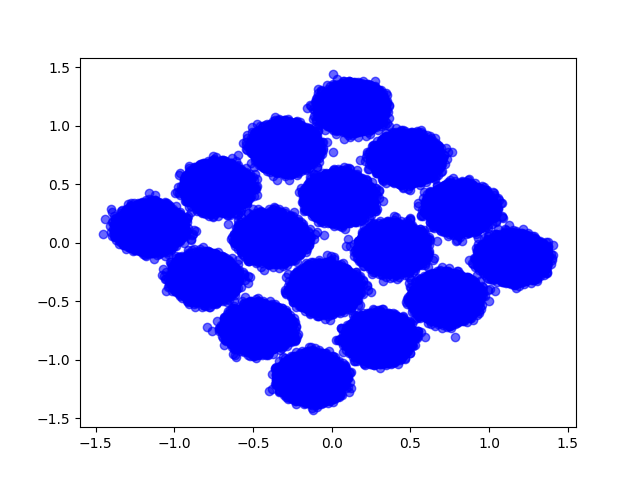
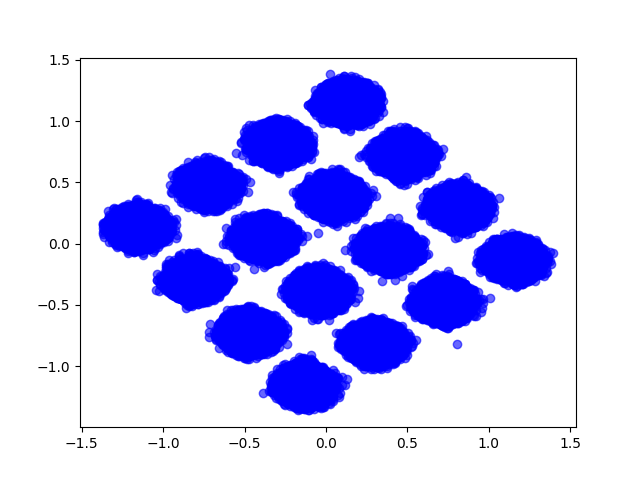
added new stuff check convergence vs taps.py

diff --git a/DSP/convergence_vs_taps.py b/DSP/convergence_vs_taps.py
@@ -6,6 +6,156 @@ from collections import deque
 N_SYMBOLS = 1000000
 NUM_TAPS=51
 
+def plot_conv(cma_error):
+
+    # errors = np.array(list(cma_error.values()))
+    errors = np.array(list(cma_error))
+
+    eps = 1e-12
+    errors = np.maximum(errors, eps)
+    log_errors = np.log10(errors)
+
+    window = 200
+    smooth_log_errors = np.convolve(
+        log_errors,
+        np.ones(window) / window,
+        mode="valid"
+    )
+    # symbols = np.array(list(cma_error.keys()))
+    symbols = np.array(list(cma_error))
+
+    symbols_smooth = symbols[window - 1:]
+    
+    plt.figure(figsize=(12, 6))
+    # plt.plot(symbols_smooth, smooth_log_errors, linewidth=2)
+    plt.plot(smooth_log_errors, linewidth=2)
+    plt.xlabel("Symbol number")
+    plt.ylabel("log10(CMA error)")
+    plt.title("log10(CMA Error) vs symbol number (window=15)")
+    plt.grid(True)
+    plt.savefig("cma_error_smoothed.png")
+
+    plt.close('all')
+    return smooth_log_errors
+
+def cma_python_with_cma_error_convergence(E_in, num_taps, mu_CMA=0.01, error_threshold=1e-3,Num_loops = 1,num_symbols_store = 2000 , patience_counter_threshold = 100):
+    """
+    CMA with moving-average convergence detection (last 10 symbols)
+    In order to calculate the error threshold I store the last (lets say 2000) N symbols.
+    I now calculate avg error over last N symbols and compare the means of N/2 start and N/2 end
+    """
+
+    # ---- Copy and normalize ----
+    xpol = E_in[:, 0].astype(complex)
+    ypol = E_in[:, 1].astype(complex)
+
+    xpol = xpol / np.sqrt(np.mean(np.abs(xpol)**2))
+    ypol = ypol / np.sqrt(np.mean(np.abs(ypol)**2))
+
+
+    N = len(xpol)
+    R = 1
+
+    # ---- Tap initialization ----
+    pxx = np.zeros(num_taps, dtype=complex)
+    pxy = np.zeros(num_taps, dtype=complex)
+    pyx = np.zeros(num_taps, dtype=complex)
+    pyy = np.zeros(num_taps, dtype=complex)
+
+    center = (num_taps - 1) // 2
+    pxx[center] = 1
+    pyy[center] = 1
+
+    convergence_symbol = None
+
+    #I am storing the last 
+    old_error_window = deque(maxlen=num_symbols_store//2)   # last 10 CMA errors
+    recent_error_window = deque(maxlen=num_symbols_store//2)   # last 10 CMA errors
+    #this counts how long we have relative error to be less than threshold
+
+
+    #print("initial_filters",initial_filters)
+    #print("shape is",initial_filters.shape)
+    patience_counter = 0
+    half_win = num_symbols_store//2
+    sum_old = 0.0
+    sum_recent = 0.0
+    log_cma_errors = []
+    difference_cma_errors = []
+
+    for k in range(Num_loops):
+        for ii in range(num_taps - 1, N):
+
+            x_vec = xpol[ii - (num_taps - 1): ii + 1][::-1]
+            y_vec = ypol[ii - (num_taps - 1): ii + 1][::-1]
+
+            x_cap = np.dot(pxx, x_vec) + np.dot(pxy, y_vec)
+            y_cap = np.dot(pyx, x_vec) + np.dot(pyy, y_vec)
+
+            e_x = R**2 - np.abs(x_cap)**2
+            e_y = R**2 - np.abs(y_cap)**2
+
+            log_cma_error = np.log10(0.5*(np.abs(e_x) + np.abs(e_y)))
+            log_cma_errors.append(log_cma_error)
+            #Add the magnitude of the filter vector which I define as sum of mod square of its elements
+            
+            if len(recent_error_window) == half_win:
+                leaving_recent = recent_error_window[0]
+                
+                # Move from recent to old
+                if len(old_error_window) == half_win:
+                    sum_old -= old_error_window[0] # Drop oldest from old sum
+                
+                old_error_window.append(leaving_recent)
+                sum_old += leaving_recent
+                
+                # Remove from recent sum
+                sum_recent -= leaving_recent
+
+            recent_error_window.append(log_cma_error)
+            sum_recent += log_cma_error
+
+            # --- CONVERGENCE CHECK (Using O(1) Sums) ---
+            m_rec = sum_recent / half_win
+            m_old = sum_old / half_win
+            
+            # Relative error check
+            diff_error = m_rec - m_old
+            difference_cma_errors.append(np.abs(diff_error))
+            
+            if convergence_symbol is None and len(old_error_window) == half_win:
+                
+                if np.abs(diff_error)< error_threshold:
+                    patience_counter += 1
+                    if patience_counter >= patience_counter_threshold:
+                        convergence_symbol = ii - patience_counter_threshold
+                else:
+                    patience_counter = 0
+
+
+            # ---- Tap updates ----
+            pxx += 2 * mu_CMA * e_x * x_cap * np.conj(x_vec)
+            pxy += 2 * mu_CMA * e_x * x_cap * np.conj(y_vec)
+            pyx += 2 * mu_CMA * e_y * y_cap * np.conj(x_vec)
+            pyy += 2 * mu_CMA * e_y * y_cap * np.conj(y_vec)
+    
+    def conv_same(sig, taps):
+        full = np.convolve(sig, taps, mode='full')
+        start = (len(taps) - 1) // 2
+        return full[start : start + len(sig)]
+
+    x_out = conv_same(xpol, pxx) + conv_same(ypol, pxy)
+    y_out = conv_same(xpol, pyx) + conv_same(ypol, pyy)
+
+    return (
+        np.column_stack((x_out, y_out)),
+        {
+            'pxx': pxx, 'pxy': pxy, 'pyx': pyx, 'pyy': pyy,
+            'cma_diff_arr': difference_cma_errors,
+            'convergence_symbol': convergence_symbol,
+            'log_cma_errors': log_cma_errors
+        }
+    )
 
 
 def cma_python_with_filter_convergence_index(E_in, num_taps, mu_CMA=0.01, error_threshold=1e-3,Num_loops = 1,num_symbols_store = 2000):
@@ -22,7 +172,7 @@ def cma_python_with_filter_convergence_index(E_in, num_taps, mu_CMA=0.01, error_
     xpol = xpol / np.sqrt(np.mean(np.abs(xpol)**2))
     ypol = ypol / np.sqrt(np.mean(np.abs(ypol)**2))
 
-    
+
     N = len(xpol)
     R = 1
 
@@ -68,7 +218,7 @@ def cma_python_with_filter_convergence_index(E_in, num_taps, mu_CMA=0.01, error_
             e_x = R**2 - np.abs(x_cap)**2
             e_y = R**2 - np.abs(y_cap)**2
 
-            cma_error.append(0.5*(e_x + e_y))
+            cma_error.append(0.5*(np.abs(e_x) + np.abs(e_y)))
             filter_vector = np.concat([pxx, pxy, pyx, pyy])
             #Add the magnitude of the filter vector which I define as sum of mod square of its elements
             filter_vector_magnitude.append(np.vdot(filter_vector,filter_vector).real)
@@ -136,24 +286,78 @@ def cma_python_with_filter_convergence_index(E_in, num_taps, mu_CMA=0.01, error_
 def min_max_normalise(array):
     return (array - np.min(array)) / (np.max(array) - np.min(array))
 
+
+def find_cma_convergence(data, short_w=500, long_w=5000, epsilon=0.005, patience=1000):
+    """
+    Optimized for high-noise convergence like CMA Error plots.
+    """
+    # 1. Calculate Moving Averages
+    ma_short = np.convolve(data, np.ones(short_w)/short_w, mode='valid')
+    ma_long = np.convolve(data, np.ones(long_w)/long_w, mode='valid')
+    
+    # 2. Align arrays
+    offset = long_w - short_w
+    diff = np.abs(ma_short[offset:] - ma_long)
+    
+    # 3. Patience Loop: Find where diff < epsilon for 'patience' consecutive steps
+    low_diff_mask = diff < epsilon
+    counter = 0
+    
+    for i, is_low in enumerate(low_diff_mask):
+        if is_low:
+            counter += 1
+        else:
+            counter = 0 # Reset if noise kicks it back up
+            
+        if counter >= patience:
+            # Return the index where the 'stable' period began
+            return i - patience + long_w 
+            
+    return None
+
 def main():
     intial_symbols=cma_utils.gen_I_Q_16_qam(N_SYMBOLS)
-    after_pmd= cma_utils.apply_pmd(intial_symbols, DGD_ps_per_sqrt_km=31.6, L_m=10000, N_sections=100, Rs=32e9, SpS=4)
+    E_after_pmd= cma_utils.apply_pmd(intial_symbols, DGD_ps_per_sqrt_km=31.6, L_m=10000, N_sections=100, Rs=32e9, SpS=4)
     
-    cma_corrected_pmd, info_dict = cma_python_with_filter_convergence_index(after_pmd, NUM_TAPS,mu_CMA=1e-4)
+    # cma_corrected_pmd, info_dict = cma_utils.cma_python(after_pmd, NUM_TAPS,mu_CMA=1e-5,Num_loops=1)
 
-    cma_utils.save_constellation(cma_corrected_pmd,"cma_corrected_pmd")
-    #print(info_dict["convergence_symbol"])
+    # cma_utils.save_constellation(cma_corrected_pmd,"cma_corrected_pmd")
+    # #print(info_dict["convergence_symbol"])
     
     
-    print("convergence symbol is",info_dict["convergence_symbol"])
 
-    print("length of filter error array",len(info_dict['square_error_arr']))
-    plt.plot(np.log10(info_dict['square_error_arr']))
+    #print("length of filter error array",len(info_dict['square_error_arr']))
     #plt.plot(min_max_normalise(info_dict['cma_error']),alpha =0.5)
-    plt.show()
     #plt.plot(range(len(info_dict["cma_error"])),info_dict["cma_error"])
     #plt.plot(np.log(info_dict["relative_error_arr"]))
+    #smoothed_log_errors = plot_conv(info_dict['cma_error'])
 
+    #print("convergence symbols is",find_cma_convergence(smoothed_log_errors))
+    snr_list = [5, 15, 25, 35, 45]
+    snr_vs_conv = {}
+    SNR_arr = []
+    converged_samples_arr = []
+    for snr_added in snr_list:
+        E_noisy = cma_utils.apply_awgn(E_after_pmd, snr_added)
+        E_out, stats = cma_utils.mcma_python(E_noisy,NUM_TAPS,mu_CMA=1e-5)
+        pxx, pxy, pyx, pyy, cma_error= stats['pxx'], stats['pyx'], stats['pyx'], stats['pyy'], stats['cma_error']
+        cma_utils.save_constellation(E_out,"mcma_corrected_"+str(snr_added))
+        plt.close('all')
+        smoothed_log_errors = plot_conv(cma_error)
+        converged_sample = find_cma_convergence(smoothed_log_errors)
+        print("converged sample is",converged_sample) 
+        #snr_vs_conv[snr_added] = convergence_symbol
+        snr_x,snr_y = cma_utils.cluster_and_get_avg_snr(E_out, 16)
+        print("SNR is", snr_x)
+
+        SNR_arr.append(snr_x)
+        #print("SNR is", cma_utils.cluster_and_get_avg_snr(E_out, 16)
+        converged_samples_arr.append(converged_sample)
+    
+
+    plt.plot(snr_list,converged_samples_arr)
+    plt.xlabel("SNR(dB)")
+    plt.ylabel("Converged Samples")
+    plt.savefig("converged_samples.png")
     #plt.show()
 if __name__ == "__main__": main()
